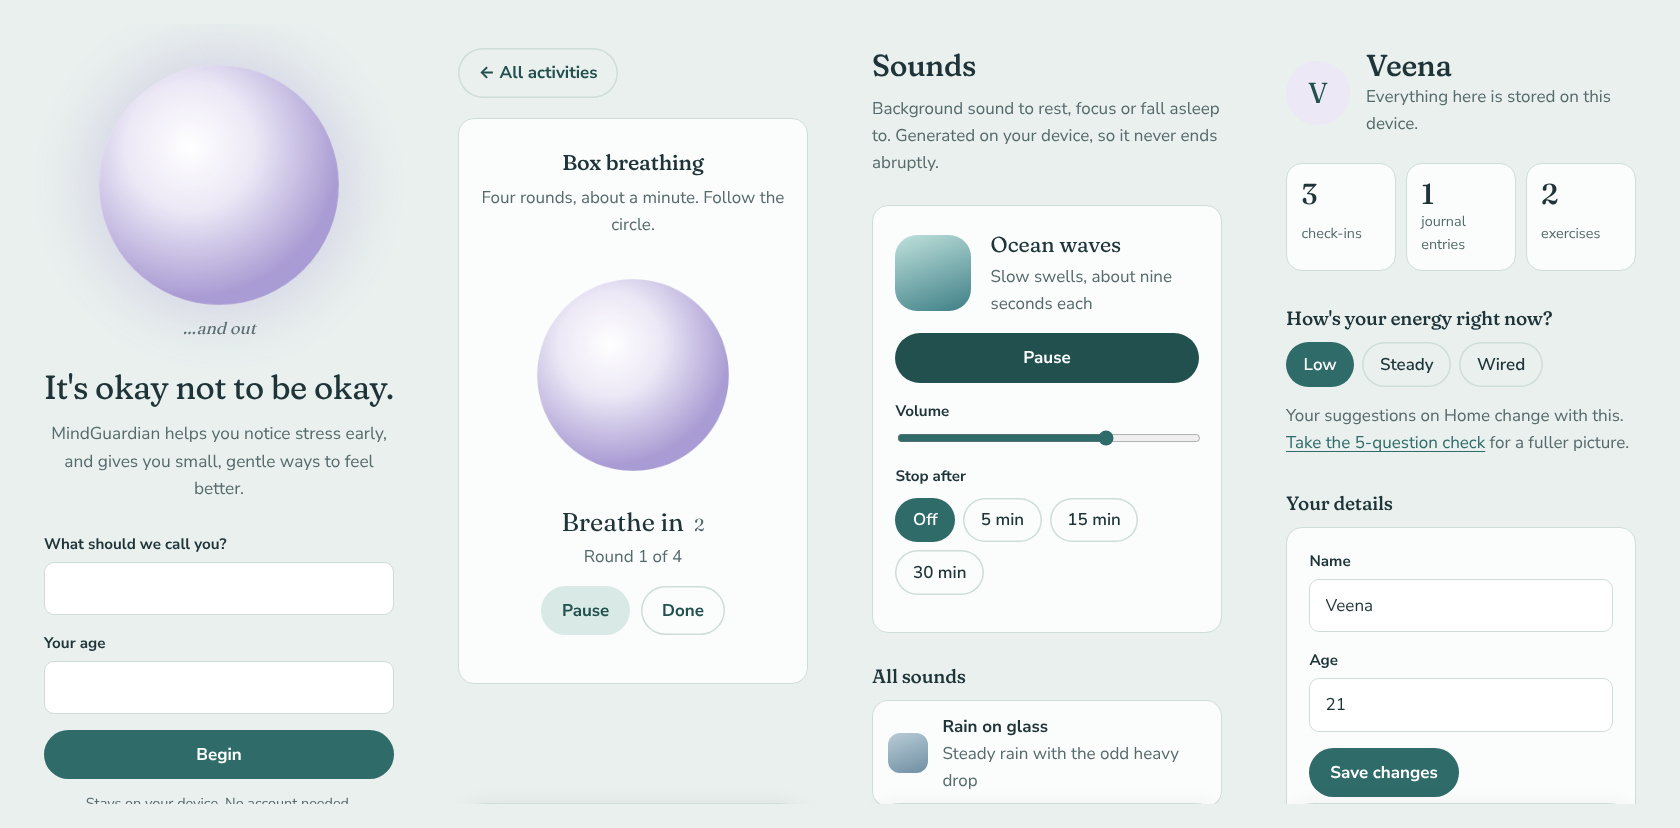
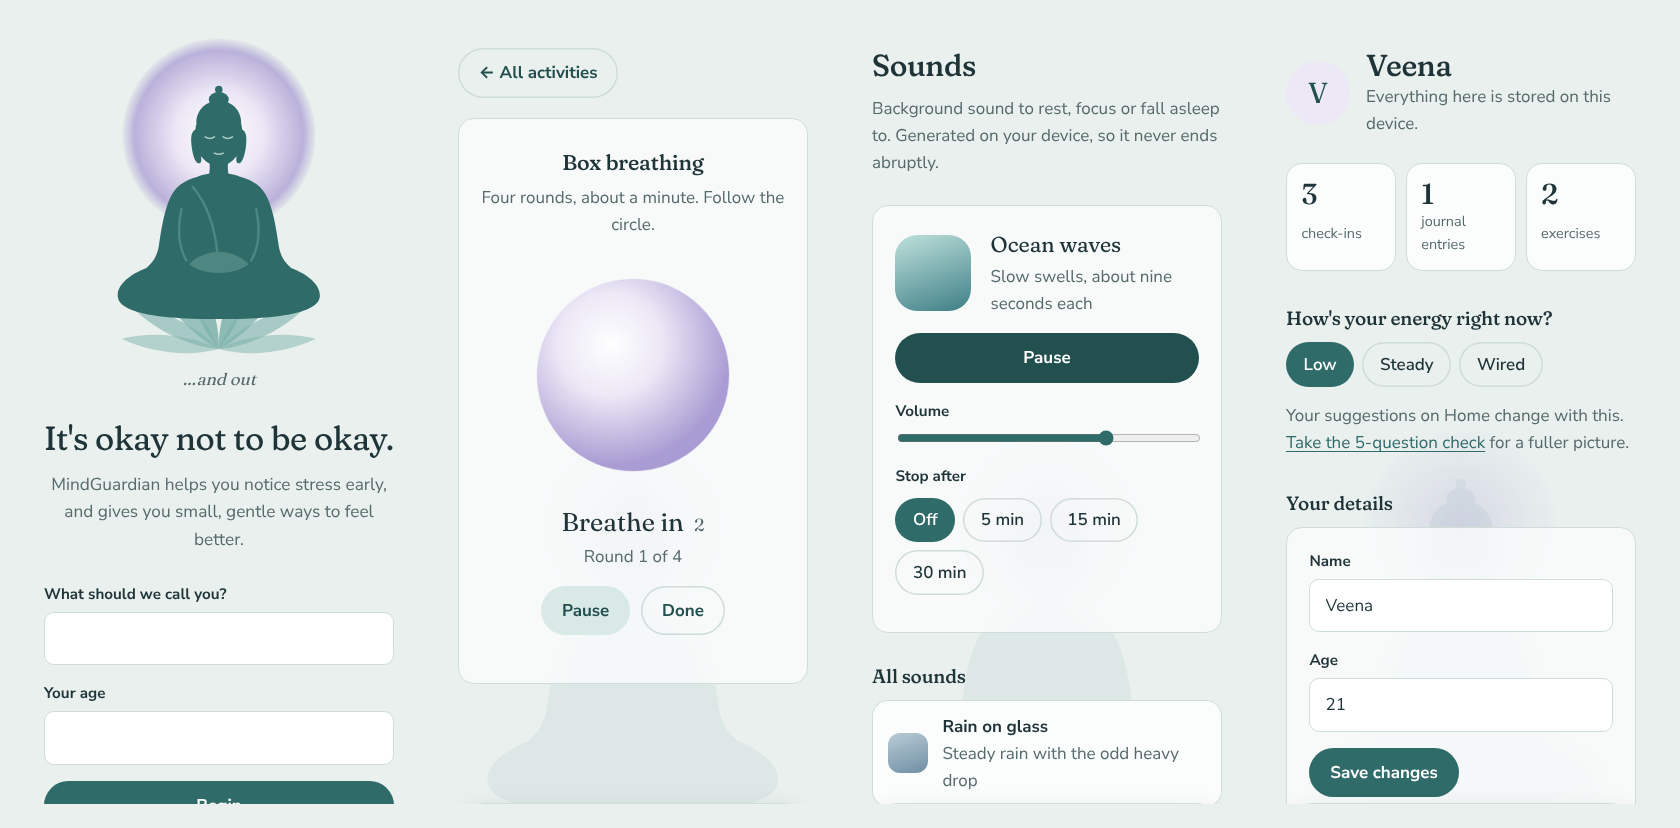
Add a calm Buddha background
- Start screen: seated Buddha on a lotus, with the breathing orb as a halo behind his head
- Every page: a faint Buddha silhouette with a soft lavender glow in the background
- Frosted cards so the background shows through gently
- Hide the empty audio player until a voice recording exists
- README: updated screenshots

diff --git a/frontend/src/index.css b/frontend/src/index.css
@@ -87,7 +87,27 @@ input:focus, textarea:focus, select:focus { outline: none; border-color: var(--t
 input[type="range"] { padding: 0; border: 0; box-shadow: none; accent-color: var(--tide); background: transparent; }
 
 /* ---------- layout ---------- */
-.app-container { min-height: 100vh; padding-bottom: 110px; }
+.app-container { min-height: 100vh; padding-bottom: 110px; isolation: isolate; }
+
+/* A faint seated Buddha resting behind every page, with a soft lavender glow at the head */
+.mg-backdrop {
+  position: fixed; z-index: -1; pointer-events: none;
+  right: max(-2vw, calc(50vw - 640px)); bottom: 0;
+  width: min(44vw, 520px); aspect-ratio: 400 / 456;
+}
+.mg-backdrop::before {
+  content: ""; position: absolute; left: 22%; top: -8%; width: 56%; aspect-ratio: 1; border-radius: 50%;
+  background: radial-gradient(circle, rgba(169,155,211,.28) 0%, rgba(169,155,211,0) 70%);
+}
+.mg-backdrop::after {
+  content: ""; position: absolute; inset: 0;
+  background: url("./assets/buddha-silhouette.svg") no-repeat center bottom / contain;
+  opacity: .085;
+}
+@media (max-width: 900px) {
+  .mg-backdrop { right: 50%; transform: translateX(50%); width: min(92vw, 460px); }
+  .mg-backdrop::after { opacity: .06; }
+}
 .mg-page { max-width: 680px; margin: 0 auto; padding: clamp(1.5rem, 5vw, 3rem) 1.25rem 2rem; }
 .mg-page--wide { max-width: 1040px; }
 .mg-page__head { margin-bottom: 1.75rem; }
@@ -123,6 +143,10 @@ input[type="range"] { padding: 0; border: 0; box-shadow: none; accent-color: var
   padding: 1.35rem 1.4rem;
   color: var(--ink);
   text-decoration: none;
+}
+/* frosted cards let the background Buddha show through softly */
+@supports (backdrop-filter: blur(1px)) {
+  .mg-card, .mg-stats > div, .mg-list__item, .mg-option { background: rgba(251,253,252,.8); backdrop-filter: blur(8px); -webkit-backdrop-filter: blur(8px); }
 }
 .mg-card--action { cursor: pointer; transition: border-color .2s ease, background-color .2s ease; }
 .mg-card--action:hover { border-color: var(--tide); background: #fff; color: var(--ink); }
@@ -162,13 +186,17 @@ input[type="range"] { padding: 0; border: 0; box-shadow: none; accent-color: var
 
 /* ---------- start screen: the breathing orb ---------- */
 .mg-welcome { min-height: 100vh; display: grid; place-items: center; align-content: center; padding: 2.5rem 1.25rem 3rem; text-align: center; overflow: hidden; }
+.mg-welcome__stage { position: relative; width: min(64vw, 260px); aspect-ratio: 400 / 456; margin-top: .5rem; }
+/* the breathing orb sits behind the head as a halo (head centre is 50% across, 22% down) */
 .mg-welcome__orb {
-  width: min(62vw, 280px); aspect-ratio: 1; border-radius: 50%;
-  background: radial-gradient(circle at 38% 34%, #fff 0%, var(--dusk-wash) 30%, var(--dusk) 70%);
-  box-shadow: 0 0 60px 10px rgba(169,155,211,.35);
+  position: absolute; left: 50%; top: 22%;
+  width: 72%; aspect-ratio: 1; margin: -36% 0 0 -36%;
+  border-radius: 50%;
+  background: radial-gradient(circle at 50% 50%, #fff 0%, var(--dusk-wash) 32%, rgba(169,155,211,.75) 62%, rgba(169,155,211,0) 72%);
   animation: breathe 10s ease-in-out infinite;
 }
-@keyframes breathe { 0%, 100% { transform: scale(.72); opacity: .8; } 50% { transform: scale(1); opacity: 1; } }
+.mg-welcome__buddha { position: relative; display: block; width: 100%; height: auto; }
+@keyframes breathe { 0%, 100% { transform: scale(.8); opacity: .7; } 50% { transform: scale(1.08); opacity: 1; } }
 .mg-welcome__cue { color: var(--muted); font-family: var(--serif); font-style: italic; font-size: 1.05rem; margin: .6rem 0 1.6rem; min-height: 1.6em; }
 .mg-welcome__body { width: min(100%, 420px); }
 .mg-welcome__title { font-size: clamp(2.1rem, 7vw, 3.1rem); font-weight: 400; }
@@ -236,6 +264,7 @@ input[type="range"] { padding: 0; border: 0; box-shadow: none; accent-color: var
 .mg-now { margin-left: auto; color: var(--tide); font-weight: 700; font-size: .9rem; }
 .mg-recording { margin-left: .8rem; color: var(--alert); font-weight: 700; }
 .mg-audio { display: block; width: 100%; margin-top: 1rem; }
+.mg-audio[hidden] { display: none; }
 
 /* ---------- profile, journal ---------- */
 .mg-profile-head { display: flex; gap: 1rem; align-items: center; margin-bottom: 1.6rem; }
@@ -289,7 +318,7 @@ input[type="range"] { padding: 0; border: 0; box-shadow: none; accent-color: var
 
 @media (prefers-reduced-motion: reduce) {
   *, *::before, *::after { animation: none !important; transition: none !important; }
-  .mg-welcome__orb { transform: scale(.86); }
+  .mg-welcome__orb { transform: scale(.95); }
 }
 
 /* quiet timer: a ring that fills as time passes */

diff --git a/frontend/src/components/BuddhaFigure.jsx b/frontend/src/components/BuddhaFigure.jsx
@@ -1,0 +1,60 @@
+// Seated Buddha in meditation on a lotus. An original drawing made for MindGuardian.
+export default function BuddhaFigure({ className = "" }) {
+  return (
+    <svg className={className} viewBox="0 30 400 456" fill="none" xmlns="http://www.w3.org/2000/svg" aria-hidden="true" focusable="false">
+
+  {/* Seated Buddha in meditation on a lotus. Original drawing for MindGuardian. */}
+  {/* lotus, petals opening upward behind the figure */}
+  <g fill="#7FB3AC">
+    <path d="M0 0c-16-18-18-46 0-68 18 22 16 50 0 68z" transform="translate(200 474) rotate(-84) scale(1.05 2.3)" opacity="0.5"/>
+    <path d="M0 0c-16-18-18-46 0-68 18 22 16 50 0 68z" transform="translate(200 474) rotate(84) scale(1.05 2.3)" opacity="0.5"/>
+    <path d="M0 0c-16-18-18-46 0-68 18 22 16 50 0 68z" transform="translate(200 474) rotate(-64) scale(1.05 2.3)" opacity="0.62"/>
+    <path d="M0 0c-16-18-18-46 0-68 18 22 16 50 0 68z" transform="translate(200 474) rotate(64) scale(1.05 2.3)" opacity="0.62"/>
+    <path d="M0 0c-16-18-18-46 0-68 18 22 16 50 0 68z" transform="translate(200 474) rotate(-42) scale(1.05 2.3)" opacity="0.75"/>
+    <path d="M0 0c-16-18-18-46 0-68 18 22 16 50 0 68z" transform="translate(200 474) rotate(42) scale(1.05 2.3)" opacity="0.75"/>
+    <path d="M0 0c-16-18-18-46 0-68 18 22 16 50 0 68z" transform="translate(200 474) rotate(-20) scale(1.05 2.3)" opacity="0.88"/>
+    <path d="M0 0c-16-18-18-46 0-68 18 22 16 50 0 68z" transform="translate(200 474) rotate(20) scale(1.05 2.3)" opacity="0.88"/>
+  </g>
+  <g fill="#2F6B68">
+    {/* body: sloping shoulders, arms curving down into the lap, crossed legs */}
+    <path d="M200 192
+             c-14 0-24 2-34 6
+             c-22 6-36 16-44 34
+             c-10 22-14 50-18 76
+             c-2 14-8 26-20 36
+             c-26 10-46 26-46 44
+             c0 22 40 38 162 38
+             s162-16 162-38
+             c0-18-20-34-46-44
+             c-12-10-18-22-20-36
+             c-4-26-8-54-18-76
+             c-8-18-22-28-44-34
+             c-10-4-20-6-34-6z"/>
+    {/* neck */}
+    <path d="M184 164c2 14 2 24 0 32 10 4 22 4 32 0-2-8-2-18 0-32z"/>
+    {/* head */}
+    <path d="M200 84c-24 0-38 20-38 46 0 30 16 50 38 50s38-20 38-50c0-26-14-46-38-46z"/>
+    {/* crown of curls and ushnisha */}
+    <path d="M164 112c0-22 16-36 36-36s36 14 36 36c-10-8-22-12-36-12s-26 4-36 12z"/>
+    <ellipse cx="200" cy="74" rx="16" ry="12"/>
+    <circle cx="200" cy="58" r="6"/>
+    {/* long earlobes */}
+    <path d="M164 122c-7 1-9 10-8 22 1 13 4 26 9 31 3 3 7 1 7-4l-2-44c0-3-3-5-6-5z"/>
+    <path d="M236 122c7 1 9 10 8 22-1 13-4 26-9 31-3 3-7 1-7-4l2-44c0-3 3-5 6-5z"/>
+  </g>
+  {/* inner arm lines and hands resting in the lap */}
+  <g stroke="#4E8682" strokeWidth="4" strokeLinecap="round" fill="none">
+    <path d="M140 250c-6 30-6 58 8 82"/>
+    <path d="M260 250c6 30 6 58-8 82"/>
+    <path d="M158 214c22 26 36 62 40 110"/>
+  </g>
+  <path d="M152 338c14-14 32-20 48-20s34 6 48 20c-14 10-30 14-48 14s-34-4-48-14z" fill="#4E8682"/>
+  {/* closed eyes, gentle smile */}
+  <g stroke="#A9CBC6" strokeWidth="2.6" strokeLinecap="round" fill="none">
+    <path d="M178 134c5 3 11 3 15 0"/>
+    <path d="M207 134c4 3 10 3 15 0"/>
+    <path d="M193 160c4 2 10 2 14 0"/>
+  </g>
+    </svg>
+  );
+}

diff --git a/frontend/src/pages/Onboarding.jsx b/frontend/src/pages/Onboarding.jsx
@@ -2,6 +2,7 @@ import { useState, useContext, useEffect } from "react";
 import { useNavigate } from "react-router-dom";
 import { UserContext } from "../context/UserContext";
 import { trackOnboardingComplete } from "../services/analyticsService";
+import BuddhaFigure from "../components/BuddhaFigure";
 
 // The orb breathes on a 10-second cycle; the cue below it follows along.
 function BreathCue() {
@@ -33,7 +34,10 @@ export default function Onboarding() {
 
   return (
     <main className="mg-welcome">
-      <div className="mg-welcome__orb" aria-hidden="true" />
+      <div className="mg-welcome__stage" aria-hidden="true">
+        <div className="mg-welcome__orb" />
+        <BuddhaFigure className="mg-welcome__buddha" />
+      </div>
       <BreathCue />
 
       <div className="mg-welcome__body">

diff --git a/frontend/src/App.jsx b/frontend/src/App.jsx
@@ -22,6 +22,7 @@ function AppContent() {
 
   return (
     <div className="app-container">
+      {showNavBar && <div className="mg-backdrop" aria-hidden="true" />}
       <Routes>
         <Route path="/auth" element={<AuthPage />} />
         <Route path="/" element={<Onboarding />} />

diff --git a/README.md b/README.md
@@ -11,6 +11,7 @@ No account needed. Everything you enter stays on your own device.
 ## What you can do
 
 - **Check in with yourself.** Tap Low, Steady or Wired, or take the 5-question check. Home adjusts its suggestions to how you're doing.
+- **A calm space.** A seated Buddha on a lotus greets you, with a halo that slowly breathes in and out, and rests softly behind every page.
 - **Calm down in a minute or two.** Box breathing with a breathing orb, a quiet timer with a soft chime, 5-4-3-2-1 grounding, progressive muscle relaxation, mindful colouring and calm tapping.
 - **Voice check-in.** Speak for a few seconds; MindGuardian reads the tone of your voice (not the words) on your device and suggests what might help.
 - **Background sounds.** Rain, ocean waves, a forest morning and soft piano, generated live in the browser, with volume and a stop-after timer.
